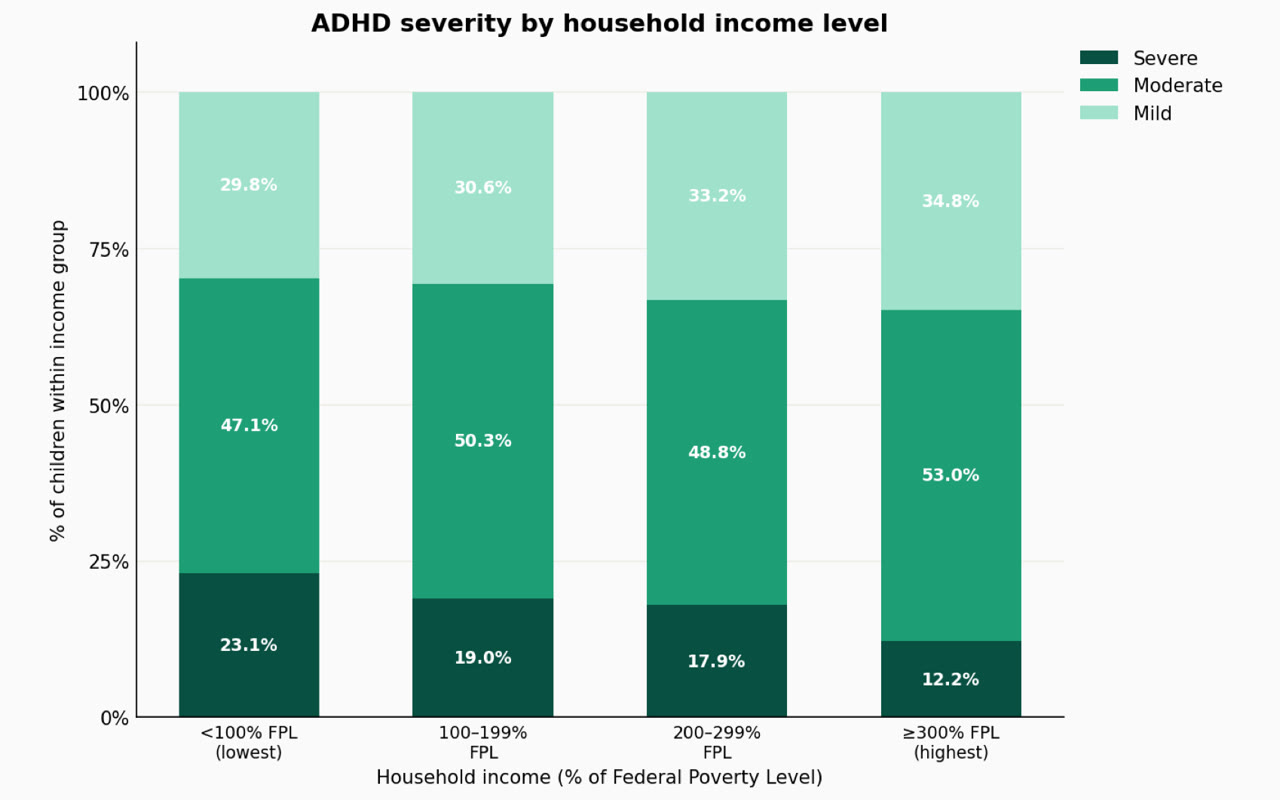
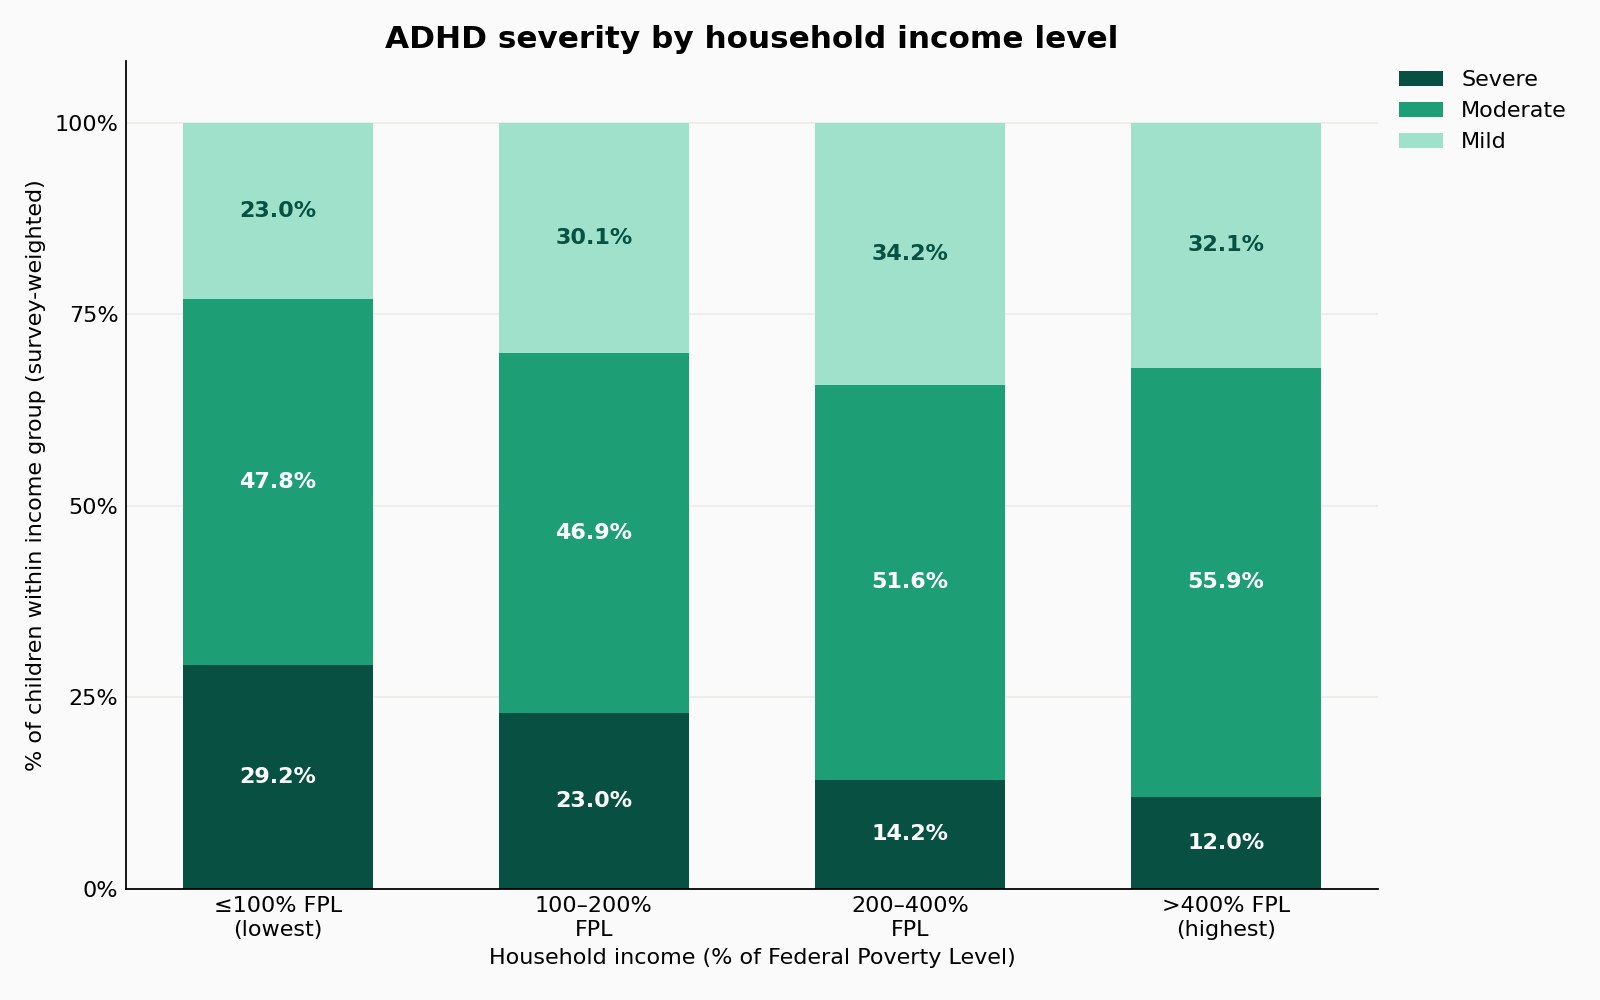
Journal backstory; ADHD card uses the team's chart style (weighted); 4th-down card shows the new live app

Changed region(s): [[0.0, 0.0625, 0.9688, 1.0], [0.25, 0.0, 0.7188, 0.0625], [0.4062, 0.3438, 0.4375, 0.375]]

diff --git a/src/data/entries.ts b/src/data/entries.ts
@@ -34,6 +34,8 @@ export interface Entry {
   chapters?: { t: number; label: string }[];
   video?: { src: string; poster: string; label: string };
   note?: string;
+  /** short backstory, in my words, shown above the demo */
+  story?: string;
   /** starters get the big cards at the top */
   starter?: boolean;
 }
@@ -84,6 +86,7 @@ export const entries: Entry[] = [
       '15 features: distance, wind gusts, temperature, surface, altitude, kicker form, game pressure',
       'XGBoost tuned on Brier score, then isotonic-calibrated so 70% means 70%',
       'Feeds the live decision engine with three other sub-models',
+      'Rebuilt the live app: one-pass scoring, a faster server, a new look, and a fix for a win-probability bug that said go for it from deep in your own end',
     ],
     results: [
       'Held-out ROC-AUC 0.78',
@@ -95,7 +98,7 @@ export const entries: Entry[] = [
       { href: 'https://playbyplay.football', label: 'Live tool' },
       { href: 'https://github.com/Bruin-Sports-Analytics/nfl-ot-4th-down-model/tree/feature/fg-probability-model', label: 'Code' },
     ],
-    pic: { kind: 'img', src: '/thumbs/nfl-overtime-4th-down.jpg', alt: "The live decision engine recommending a field goal from the opponent's 32, with a 72.1% make probability from my model" , caption: 'The live tool: from the opponent’s 32 it recommends the kick. The 72.1% make probability comes from my model.' },
+    pic: { kind: 'img', src: '/thumbs/nfl-overtime-4th-down.jpg', alt: 'The live decision engine on 4th and 5 at midfield in overtime, calling a punt: 47.1% to win vs 45.6% going for it', caption: 'The live tool: 4th & 5 at midfield on the first OT possession, it calls the punt.' },
     charts: ['fg'],
     figures: [
       { src: '/img/fg-explainer.png', alt: 'Four-panel chart of field goal make probability by distance, kicker quality, weather, and game scenario', caption: 'The summary slide I presented.', w: 1600, h: 891, wide: true },
@@ -175,6 +178,7 @@ export const entries: Entry[] = [
   },
   {
     slug: 'journal-to-data',
+    story: 'I didn’t want to forget what college actually felt like day to day, so I started tracking everything: sleep, gym, classes, mood. Filling in a spreadsheet every night got old fast. So I flipped it: I just write a normal journal entry, and an LLM pulls the numbers out for me.',
     name: 'JournalToData',
     what: 'An LLM turns my nightly journal into daily metrics.',
     stat: { value: '15+', label: 'metrics per entry' },
@@ -265,7 +269,7 @@ export const entries: Entry[] = [
       '69% have at least one other diagnosed condition',
     ],
     links: [],
-    pic: { kind: 'img', src: '/data/adhd-diagnosis/thumb.jpg', alt: '100 squares each for the poorest and highest-income households, shaded by ADHD severity' },
+    pic: { kind: 'img', src: '/thumbs/adhd-diagnosis.jpg', alt: 'The project chart: stacked bars of ADHD severity by household income, survey-weighted', caption: 'The team chart, re-run with survey weights.' },
   },
   {
     slug: 'souschef',
